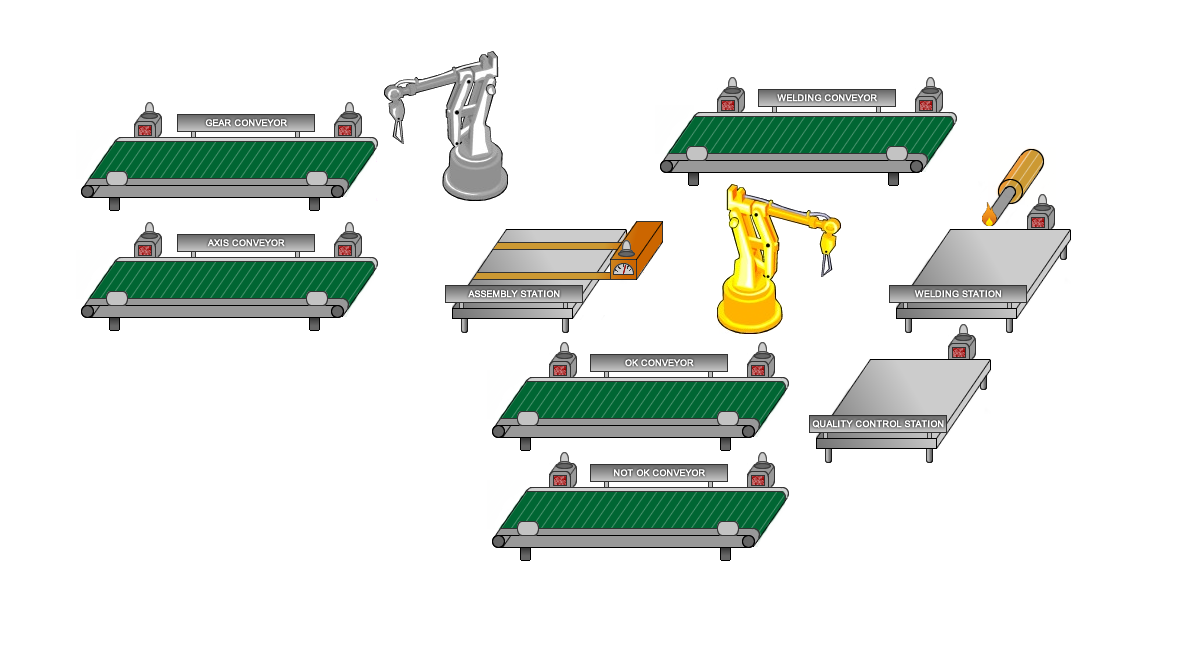
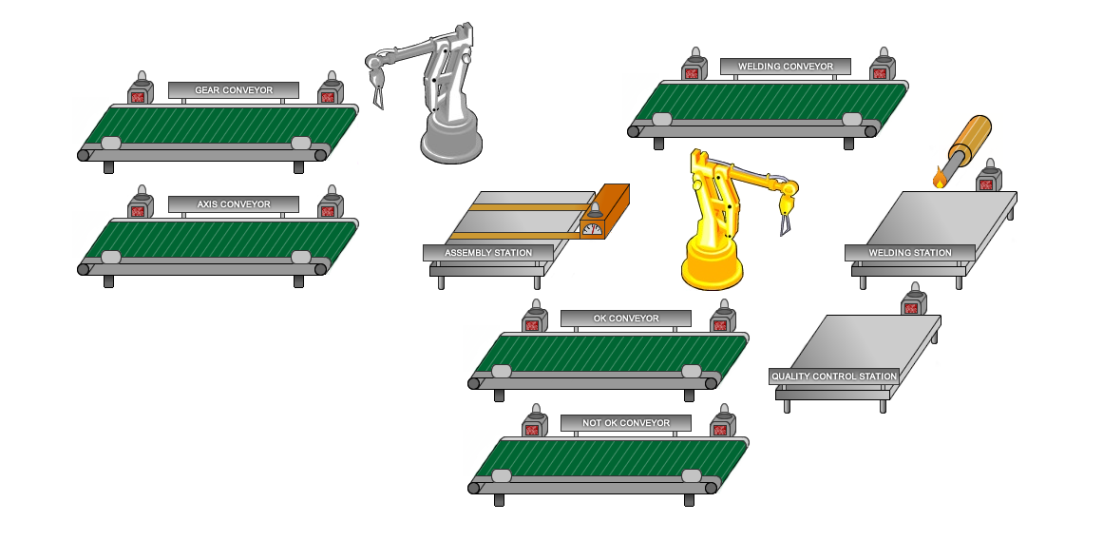
Cambiando resolucion de GUI

Changed region(s): [[0.3699, 0.0887, 0.9248, 0.9464], [0.0617, 0.0296, 0.4624, 0.5323]]

diff --git a/flexible-manufacturing-cell/src/Auxiliar/Constants.java b/flexible-manufacturing-cell/src/Auxiliar/Constants.java
@@ -142,8 +142,8 @@ public class Constants {
     /**
      * constants used for GUI
      */
-    public static final int CANVAS_WIDTH = 1100;
-    public static final int CANVAS_HEIGHT = 540;
+    public static final int CANVAS_WIDTH = 1000;
+    public static final int CANVAS_HEIGHT = 490;
     public static final Point QUALITY_POSITION = new Point(505, 160);  //probando
     public static final String TITLE = "Flexible Manufacturing Cell";
     public static final String CONTROL_PANEL_TITLE = "Control Panel";
